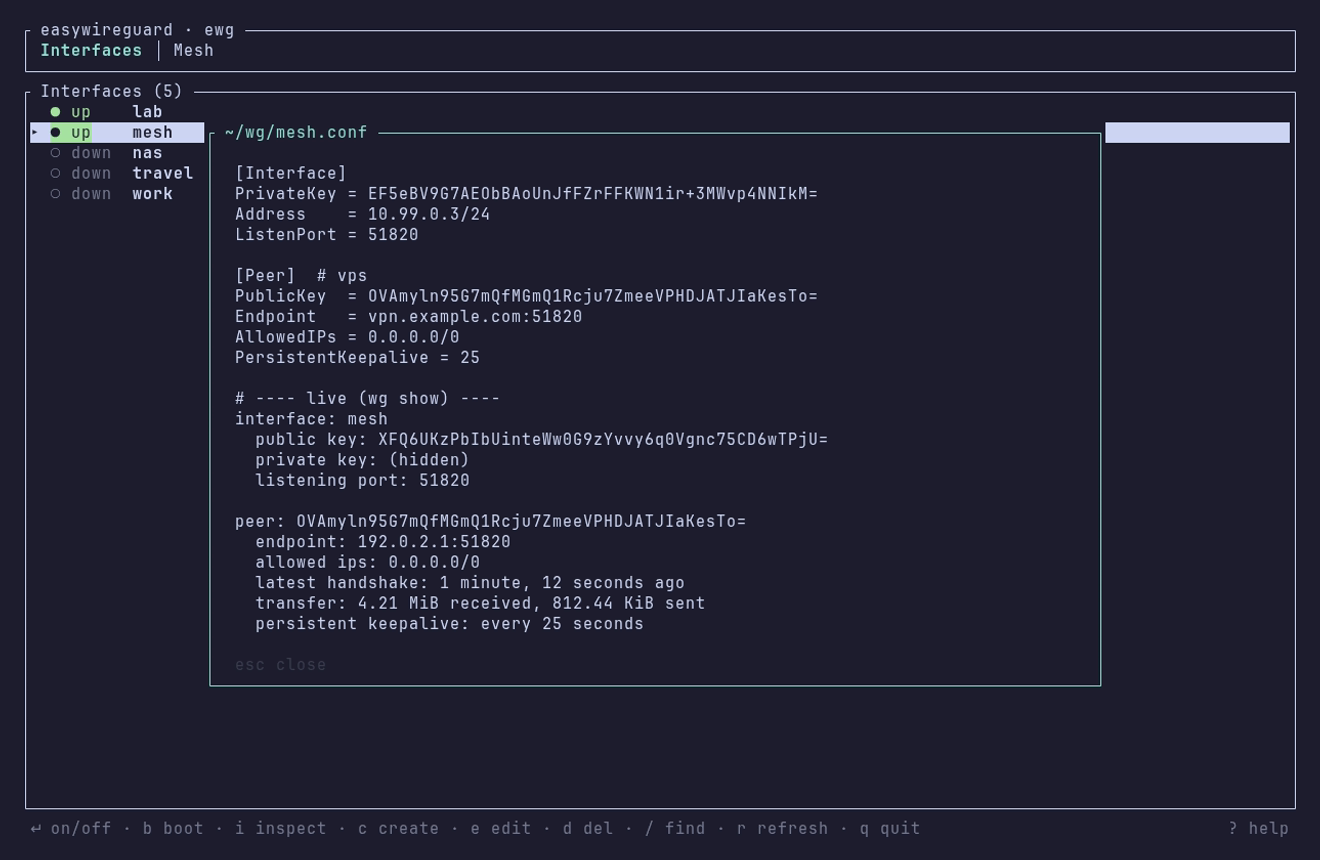
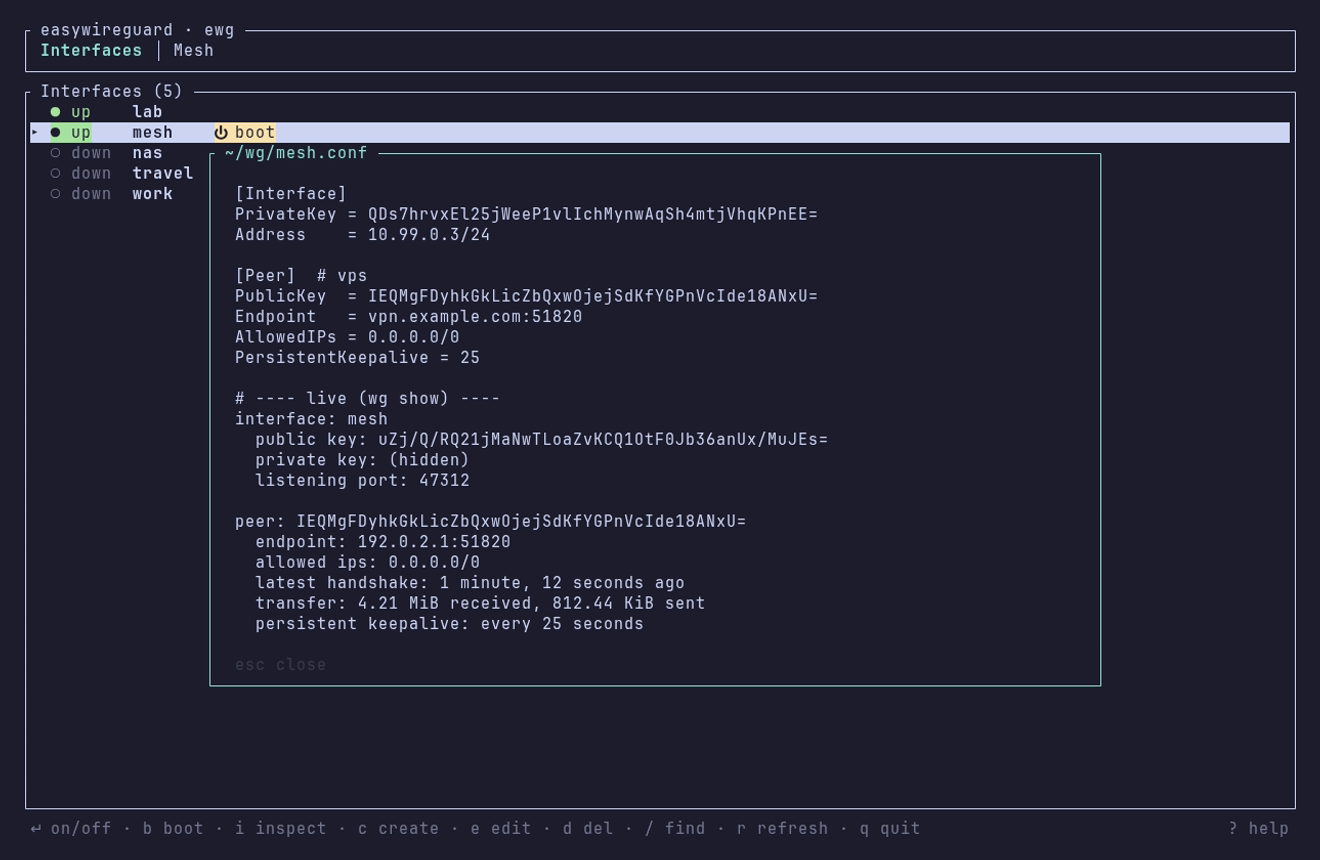
fix: spokes drop ListenPort, dns is checked, wizard address follows the hub

diff --git a/src/manifest.rs b/src/manifest.rs
@@ -9,10 +9,13 @@
 use anyhow::{Context, Result, bail};
 use serde::{Deserialize, Serialize};
 use std::collections::HashSet;
+use std::net::IpAddr;
 use std::path::Path;
 
 #[derive(Debug, Deserialize, Serialize)]
 pub struct Manifest {
+    /// The port every hub listens on. A spoke's config gets no `ListenPort`, so
+    /// it takes a free one and never clashes with another VPN on the device.
     #[serde(default = "default_port")]
     pub listen_port: u16,
     #[serde(rename = "node", default)]
@@ -33,8 +36,9 @@ pub struct Node {
     /// send that traffic here. Comma-separated for multiple.
     #[serde(default, skip_serializing_if = "Option::is_none")]
     pub allowed_ips: Option<String>,
-    /// DNS server for THIS node's own `[Interface]` (e.g. a Pi-hole behind the
-    /// tunnel), written as `DNS = ...` when present. Comma-separated for multiple.
+    /// DNS for THIS node's own `[Interface]`, written as `DNS = ...` when
+    /// present: resolver IPs and search domains, comma-separated. Any other
+    /// entry is refused.
     #[serde(default, skip_serializing_if = "Option::is_none")]
     pub dns: Option<String>,
     /// Seconds between keepalives sent TO this node (set on a stable/behind-NAT
@@ -92,8 +96,10 @@ impl Manifest {
         std::fs::write(path, text).with_context(|| format!("writing manifest `{}`", path.display()))
     }
 
-    /// Append a node, rejecting duplicate names or mesh addresses.
+    /// Append a node, rejecting duplicate names or mesh addresses and a `dns`
+    /// entry that is neither an IP nor a search domain.
     pub fn add(&mut self, node: Node) -> Result<()> {
+        check_dns(&node)?;
         if self.nodes.iter().any(|n| n.name == node.name) {
             bail!("node `{}` already exists", node.name);
         }
@@ -129,6 +135,7 @@ impl Manifest {
             if !addrs.insert(ip.to_string()) {
                 bail!("duplicate mesh address `{ip}` - each node needs its own");
             }
+            check_dns(n)?;
         }
         Ok(())
     }
@@ -167,7 +174,9 @@ impl Manifest {
         if let Some(dns) = &node.dns {
             s.push_str(&format!("DNS        = {dns}\n"));
         }
-        s.push_str(&format!("ListenPort = {}\n", self.listen_port));
+        if Self::is_hub(node) {
+            s.push_str(&format!("ListenPort = {}\n", self.listen_port));
+        }
         if let Some(pu) = &node.post_up {
             s.push_str(&format!("PostUp     = {pu}\n"));
         }
@@ -209,6 +218,44 @@ impl Node {
 /// The bare IP from an `address` field: `10.10.0.1/24` -> `10.10.0.1`.
 fn ip_of(address: &str) -> &str {
     address.split('/').next().unwrap_or(address)
+}
+
+/// Every entry in `dns` must be an IP or a search domain. The Android app
+/// refuses to import a config with anything else there, and wg-quick hands an
+/// entry holding a colon, or only digits and dots, to the resolver as a server.
+fn check_dns(node: &Node) -> Result<()> {
+    for entry in node.dns.iter().flat_map(|d| d.split(',')).map(str::trim) {
+        if entry.is_empty() {
+            bail!(
+                "dns on `{}` has an empty entry: drop the stray comma, or leave dns out",
+                node.name
+            );
+        }
+        if entry.parse::<IpAddr>().is_err() && !is_search_domain(entry) {
+            bail!(
+                "dns `{entry}` on `{}` is neither an IP nor a search domain: give resolver IPs, comma-separated",
+                node.name
+            );
+        }
+    }
+    Ok(())
+}
+
+/// A hostname as the Android app accepts one (labels of up to 63 letters,
+/// digits and inner hyphens, an optional trailing dot), unless it is only digits
+/// and dots, which wg-quick would take for a server.
+fn is_search_domain(entry: &str) -> bool {
+    let name = entry.strip_suffix('.').unwrap_or(entry);
+    entry.len() <= 255
+        && !name.bytes().all(|b| b.is_ascii_digit() || b == b'.')
+        && name.split('.').all(|label| {
+            (1..=63).contains(&label.len())
+                && label
+                    .bytes()
+                    .all(|b| b.is_ascii_alphanumeric() || b == b'-')
+                && !label.starts_with('-')
+                && !label.ends_with('-')
+        })
 }
 
 #[cfg(test)]
@@ -447,5 +494,61 @@ mod tests {
         };
         let e = m.validate().unwrap_err().to_string();
         assert!(e.contains("duplicate mesh address"), "got: {e}");
+    }
+
+    #[test]
+    fn a_dns_entry_that_is_neither_an_ip_nor_a_search_domain_is_refused() {
+        let spoke = |dns: &str| Node {
+            name: "S".into(),
+            address: "10.10.0.9/24".into(),
+            public_key: "z".into(),
+            endpoint: None,
+            private_key: None,
+            allowed_ips: None,
+            dns: Some(dns.into()),
+            keepalive: None,
+            hubs: Vec::new(),
+            post_up: None,
+            post_down: None,
+        };
+        for ok in [
+            "192.0.2.53",
+            "2001:db8::53",
+            "192.0.2.53, lan",
+            "corp.example.com.",
+        ] {
+            assert!(
+                manifest().add(spoke(ok)).is_ok(),
+                "`{ok}` is a valid DNS line"
+            );
+        }
+        for bad in [
+            "vpn.example.com:51820",
+            "192.0.2.53,,lan",
+            "192.0.2.256",
+            "192.0.2.53 198.51.100.53",
+        ] {
+            assert!(
+                manifest().add(spoke(bad)).is_err(),
+                "`{bad}` must be refused on add"
+            );
+            let mut m = manifest();
+            m.nodes.push(spoke(bad));
+            assert!(m.validate().is_err(), "`{bad}` must be refused on load");
+        }
+    }
+
+    #[test]
+    fn only_a_hub_config_carries_a_listen_port() {
+        let mut m = manifest();
+        m.nodes[1].endpoint = None; // B becomes a spoke
+        assert!(
+            m.node_config(&m.nodes[0]).contains("ListenPort = 51820"),
+            "a hub listens on the manifest's port"
+        );
+        assert!(
+            !m.node_config(&m.nodes[1]).contains("ListenPort"),
+            "a spoke leaves its port to the kernel"
+        );
     }
 }

diff --git a/src/tui/mod.rs b/src/tui/mod.rs
@@ -29,7 +29,9 @@ use ratatui::crossterm::{
 };
 use ratatui::prelude::*;
 use ratatui::widgets::ListState;
+use std::collections::HashSet;
 use std::io::stdout;
+use std::net::Ipv4Addr;
 use std::path::PathBuf;
 use std::time::{Duration, Instant};
 
@@ -292,19 +294,40 @@ impl App {
         self.set_status(msg);
     }
 
-    /// Suggest the next free `10.99.0.x/24` from the nodes already in the manifest.
-    pub(super) fn next_address(&self) -> String {
-        let used: Vec<u8> = self
+    /// Suggest the next free address in `hub`'s subnet (a hub at `10.10.7.1/24`
+    /// alone gives `10.10.7.2/24`), or in `10.99.0.0/24` when there is no hub or
+    /// its address is not IPv4.
+    pub(super) fn next_address(&self, hub: Option<&str>) -> String {
+        const FALLBACK: &str = "10.99.0.1/24";
+        let used: HashSet<Ipv4Addr> = self
             .nodes
             .iter()
-            .filter_map(|n| {
-                n.mesh_ip()
-                    .strip_prefix("10.99.0.")
-                    .and_then(|s| s.parse().ok())
-            })
+            .filter_map(|n| n.mesh_ip().parse().ok())
             .collect();
-        let next = (1..=254).find(|c| !used.contains(c)).unwrap_or(1);
-        format!("10.99.0.{next}/24")
+        let base = hub
+            .and_then(|h| self.nodes.iter().find(|n| n.name == h))
+            .map_or(FALLBACK, |n| n.address.as_str());
+        free_in_subnet(base, &used)
+            .or_else(|| free_in_subnet(FALLBACK, &used))
+            .unwrap_or_else(|| FALLBACK.into())
+    }
+
+    /// Point the create wizard's Address default at the picked hub's subnet. An
+    /// edit keeps the node's own address, so it is left alone.
+    pub(super) fn refresh_address_default(&mut self) {
+        let Some(p) = &self.prompt else {
+            return;
+        };
+        if !matches!(p.action, Action::AddNode) {
+            return;
+        }
+        let hub = (p.kind() == NodeKind::Spoke)
+            .then(|| p.value_of("Hub to dial"))
+            .filter(|h| !h.is_empty());
+        let addr = self.next_address(hub.as_deref());
+        if let Some(p) = &mut self.prompt {
+            p.set_default("Address", &addr);
+        }
     }
 
     /// Names of the hubs (nodes with an endpoint) - the pickable targets for a spoke.
@@ -406,6 +429,22 @@ fn event_loop<B: Backend>(terminal: &mut Terminal<B>, dirs: &[PathBuf]) -> Resul
     Ok(())
 }
 
+/// The first host address of `address`'s IPv4 subnet that is not in `used`, with
+/// the same prefix. None for IPv6, an unparsable address, a `/31` or `/32`, or a
+/// subnet with nothing free.
+fn free_in_subnet(address: &str, used: &HashSet<Ipv4Addr>) -> Option<String> {
+    let (ip, prefix) = address.split_once('/')?;
+    let ip: Ipv4Addr = ip.parse().ok()?;
+    let prefix: u32 = prefix.parse().ok().filter(|p| *p <= 30)?;
+    let mask = u32::MAX.checked_shl(32 - prefix).unwrap_or(0);
+    let network = u32::from(ip) & mask;
+    let broadcast = network | !mask;
+    (network + 1..broadcast)
+        .map(Ipv4Addr::from)
+        .find(|c| !used.contains(c))
+        .map(|c| format!("{c}/{prefix}"))
+}
+
 #[cfg(test)]
 mod tests {
     use super::*;
@@ -434,10 +473,10 @@ mod tests {
     #[test]
     pub(super) fn next_address_picks_the_first_free_ip() {
         let mut a = app();
-        assert_eq!(a.next_address(), "10.99.0.1/24", "empty manifest -> .1");
+        assert_eq!(a.next_address(None), "10.99.0.1/24", "empty manifest -> .1");
         a.nodes = vec![node("hub", 1), node("phone", 2), node("laptop", 4)];
         assert_eq!(
-            a.next_address(),
+            a.next_address(None),
             "10.99.0.3/24",
             "skips .1/.2/.4, takes the gap"
         );

diff --git a/src/tui/prompt.rs b/src/tui/prompt.rs
@@ -222,17 +222,19 @@ impl Prompt {
             Field::new("Name", "")
                 .required()
                 .hint("e.g. phone, laptop, vps"),
-            Field::new("Address", default_addr),
         ];
         match kind {
             NodeKind::Spoke => {
-                fields.push(Field::new("DNS", "").hint("e.g. a Pi-hole"));
+                // Ahead of Address, whose default is taken from the hub's subnet.
                 fields.push(
                     Field::pick("Hub to dial", hubs.to_vec())
                         .hint("no hubs yet - create one first"),
                 );
+                fields.push(Field::new("Address", default_addr));
+                fields.push(Field::new("DNS", "").hint("resolver IPs, search domains"));
             }
             NodeKind::Hub => {
+                fields.push(Field::new("Address", default_addr));
                 fields.push(
                     Field::new("Endpoint", "")
                         .required()
@@ -287,6 +289,17 @@ impl Prompt {
             .find(|f| f.label.starts_with(label_starts))
         {
             f.value = value.to_string();
+        }
+    }
+
+    /// Replace a field's default by label prefix (no-op if absent).
+    pub(super) fn set_default(&mut self, label_starts: &str, default: &str) {
+        if let Some(f) = self
+            .fields
+            .iter_mut()
+            .find(|f| f.label.starts_with(label_starts))
+        {
+            f.default = default.to_string();
         }
     }
 

diff --git a/src/tui/input.rs b/src/tui/input.rs
@@ -299,9 +299,10 @@ impl App {
                 self.prompt = Some(Prompt::create_node(
                     NodeKind::Spoke,
                     KeySource::Generate,
-                    &self.next_address(),
+                    "",
                     &self.hub_names(),
-                ))
+                ));
+                self.refresh_address_default();
             }
             KeyCode::Char('e') => {
                 let hubs = self.hub_names();
@@ -393,7 +394,7 @@ impl App {
                 let p = self.prompt.as_ref().unwrap();
                 let cur_kind = matches!(p.fields[p.idx].kind, FieldKind::Type(_));
                 let cur_key = matches!(p.fields[p.idx].kind, FieldKind::Key(_));
-                let (addr, hubs) = (self.next_address(), self.hub_names());
+                let (addr, hubs) = (self.next_address(None), self.hub_names());
                 let p = self.prompt.as_mut().unwrap();
                 if cur_kind {
                     p.toggle_kind(&addr, &hubs);
@@ -402,6 +403,7 @@ impl App {
                 } else {
                     p.cycle_pick(delta);
                 }
+                self.refresh_address_default();
                 return;
             }
         }

diff --git a/src/commands/mesh.rs b/src/commands/mesh.rs
@@ -51,7 +51,7 @@ pub enum MeshAction {
         /// subnet (site-to-site). Defaults to this node's own `/32`.
         #[arg(long = "allowed-ips")]
         allowed_ips: Option<String>,
-        /// DNS for this node's own interface (e.g. a Pi-hole behind the tunnel)
+        /// DNS for this node's own interface: resolver IPs and search domains, comma-separated
         #[arg(long)]
         dns: Option<String>,
         /// Seconds between keepalives peers send to this node (e.g. 25)

diff --git a/AGENTS.md b/AGENTS.md
@@ -15,6 +15,9 @@ Working brief for an AI coding agent, not documentation for people (the README c
 - Peers are routed by `/32` (the node's single mesh IP), never the interface prefix, or traffic for the whole subnet would be sent to one peer.
 - `private_key` is optional in the manifest so a public-only manifest can be shared; a missing key writes a `<PASTE PRIVATE KEY>` placeholder, never a crash or a silently-wrong config. `mesh list --json` never includes private keys.
 - The manifest rejects duplicate node names and duplicate mesh addresses; overlapping addresses break routing.
+- Every entry in a node's `dns` must be an IP or a search domain, checked by `check_dns` in `Manifest::add` (which the TUI's create and edit both go through) and on `Manifest::load`. The Android app splits `DNS` on commas, takes what parses as an IP as a server and what matches its hostname pattern as a search domain, and refuses to import the config for anything else (a `host:port`, an empty entry before a comma), so `check_dns` refuses every empty entry. wg-quick takes an entry with a colon, or of only digits and dots, as a server and everything else as a search domain, so `is_search_domain` also refuses a name made only of digits and dots (a mistyped IP). A search domain alone is accepted; wg-quick then sets no DNS at all.
+- Only a hub's generated config carries `ListenPort` (the manifest's `listen_port`); a spoke gets none, so it takes a free port and never clashes with another VPN holding 51820 on the same device.
+- In the create wizard a spoke's Hub to dial sits above Address, because Address defaults to the next free IP in the picked hub's IPv4 subnet (`App::next_address`, re-applied by `refresh_address_default` after every choice change). With no hub, or a hub whose address is not IPv4 with a prefix of /30 or wider, it falls back to `10.99.0.0/24`. The edit wizard keeps the node's own address.
 - Command taxonomy is deliberate: ops (`list`/`status`/`up`/`down`/`dir`/TUI) act on live `.conf` files across registered dirs; mesh (`mesh add`/`list`/`rm`/`gen`) edits a manifest and generates configs. `status` shows only interfaces that are up; `list` (alias `ls`) shows all with up/down state. Keep these separate.
 - Reading the config dir and toggling interfaces needs root; the tool auto-re-execs under `sudo` (via its own absolute path) when a dir is unreadable. `status --json` is the exception: it reads the kernel (`/sys/class/net`, `DEVTYPE=wireguard`) and never elevates, so a status bar can poll it. `EWG_NO_SUDO=1` disables that; `EWG_REGISTRY` and `EWG_DIR` override paths (tests rely on both).
 - `wg-quick` output is captured, not inherited, or its wall of `[#] ...` lines corrupts the TUI's alternate screen.

diff --git a/README.md b/README.md
@@ -54,7 +54,7 @@ Describe each node once and it is laid out hub and spoke. A hub meshes with ever
 
 ## Create a node without touching a key
 
-![The node wizard with a Spoke/Hub toggle and fields for name, address, DNS, the hub to dial, and where the private key goes](https://gitlab.com/safteinzz/easywireguard/-/raw/main/readme-assets/wizard.png)
+![The node wizard with a Spoke/Hub toggle and fields for name, the hub to dial, address, DNS, and where the private key goes](https://gitlab.com/safteinzz/easywireguard/-/raw/main/readme-assets/wizard.png)
 
 `c` generates the keypair for you. **store** keeps the private key in the manifest so you can export a working config later, and **redact** leaves it only in what you hand out, so nothing secret is at rest.
 
